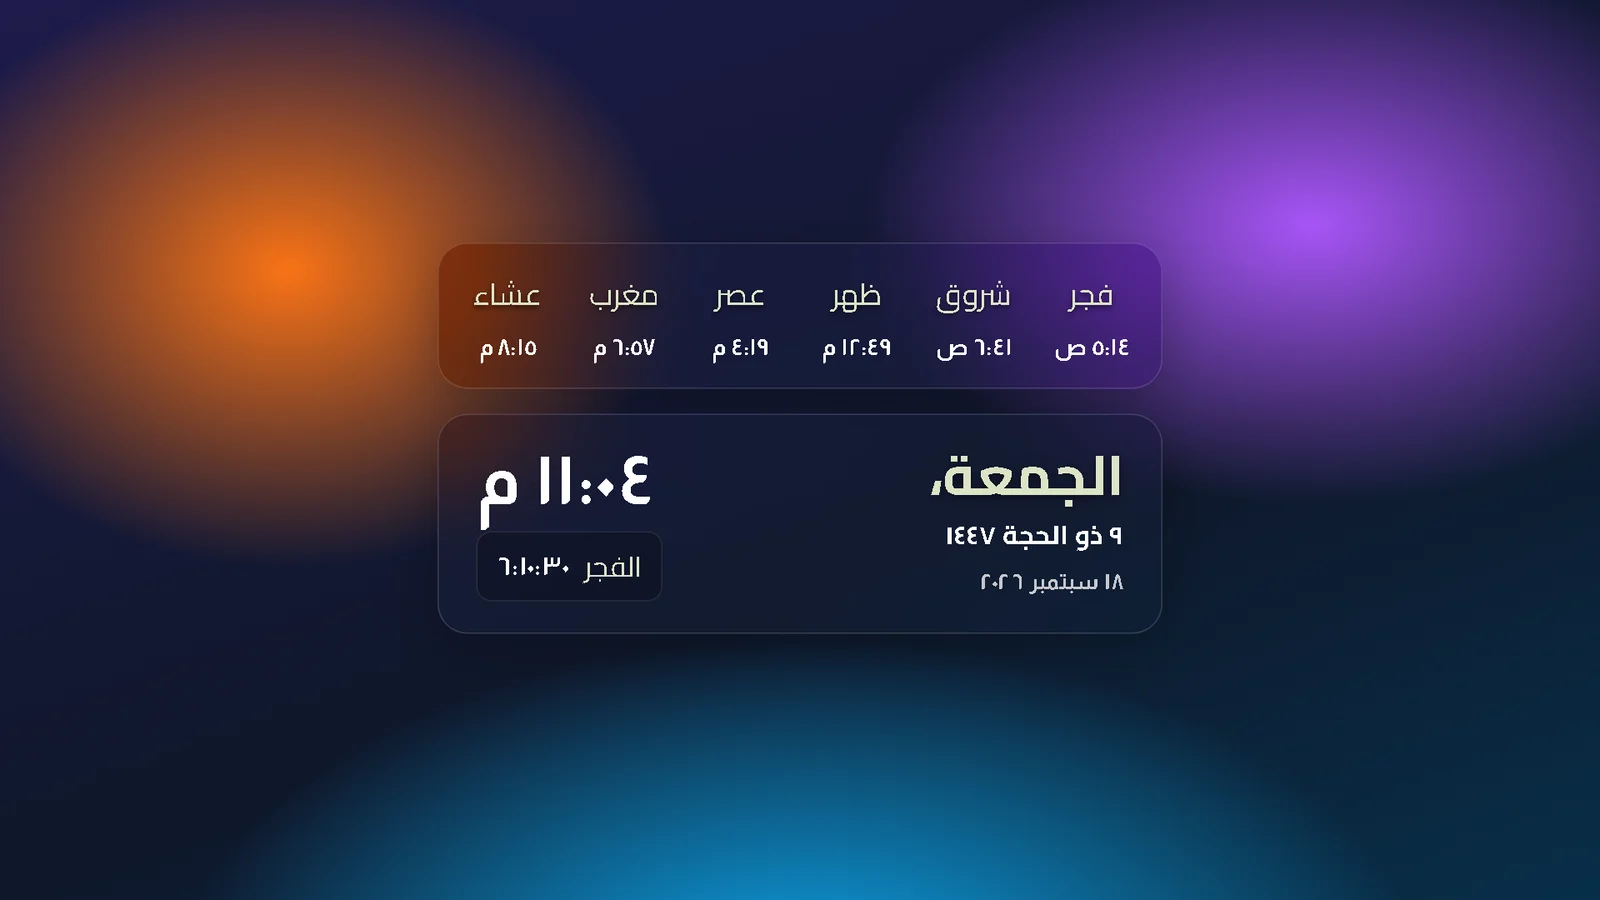
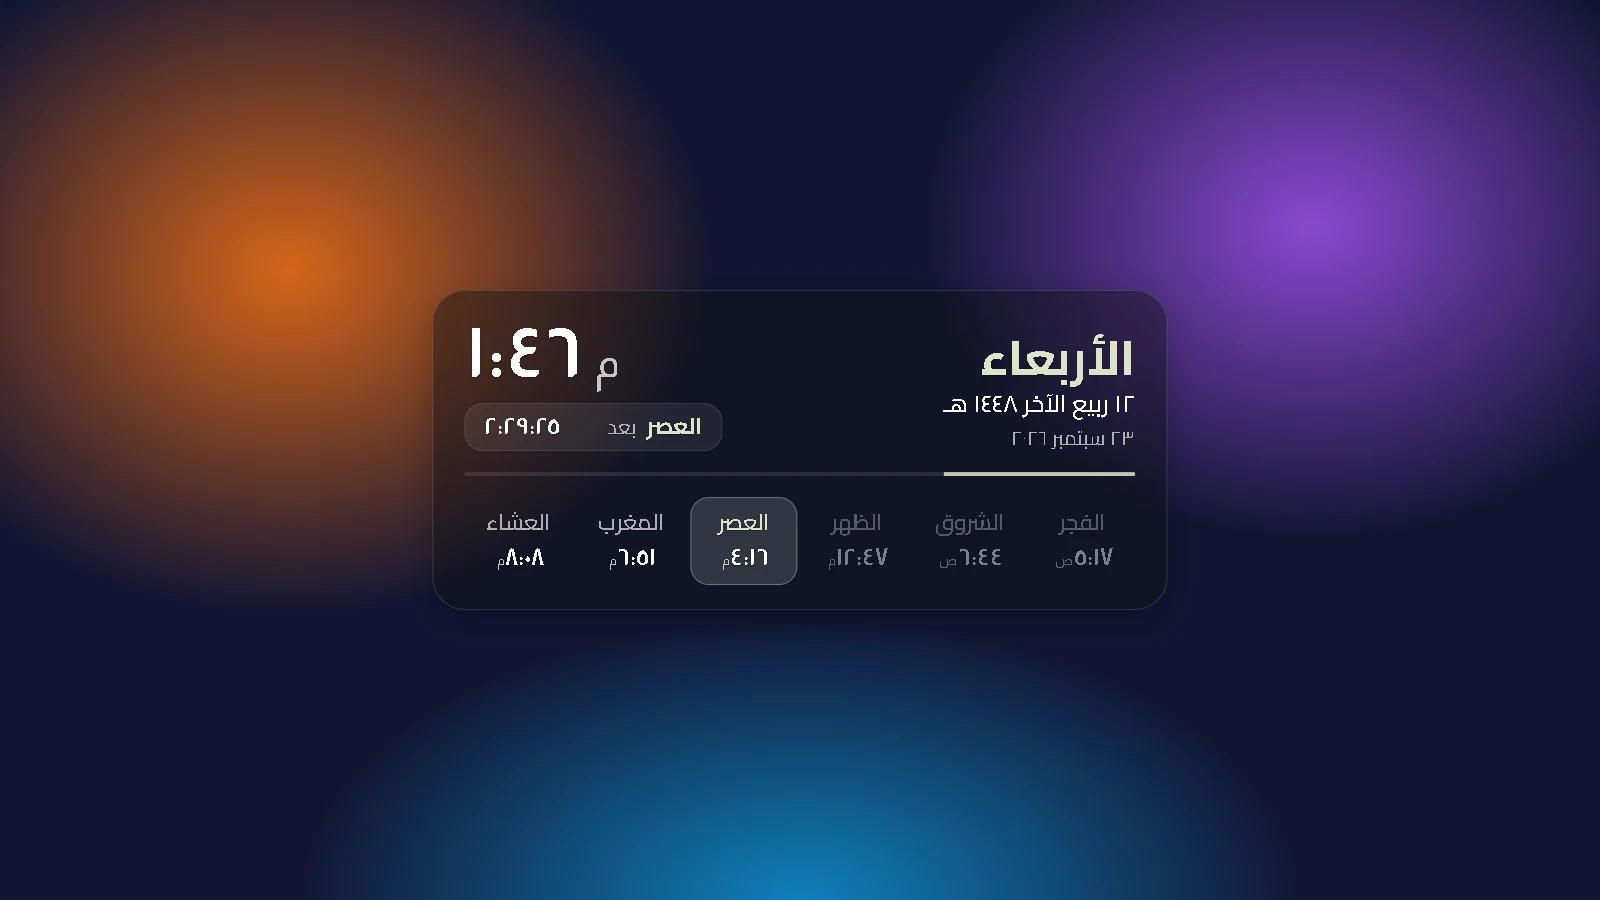
README: new preview of the 1.3 widget

diff --git a/README.md b/README.md
@@ -10,7 +10,7 @@ A beautifully designed, Glassmorphism-inspired Islamic prayer times widget for W
   <img src="https://img.shields.io/badge/TypeScript-3178C6?style=for-the-badge&logo=typescript&logoColor=white" alt="TypeScript">
 </p>
 
-<img src="docs/preview.webp" alt="Meqat widget on a Windows desktop: today's prayer times, the Hijri and Gregorian date, and a countdown to the next prayer" width="100%">
+<img src="docs/preview.webp" alt="Meqat 1.3 on a Windows desktop: the date in Hijri and Gregorian, the clock, a countdown to Asr, and the six prayer times with Asr highlighted as next" width="100%">
 
 ## ✨ Features
 
